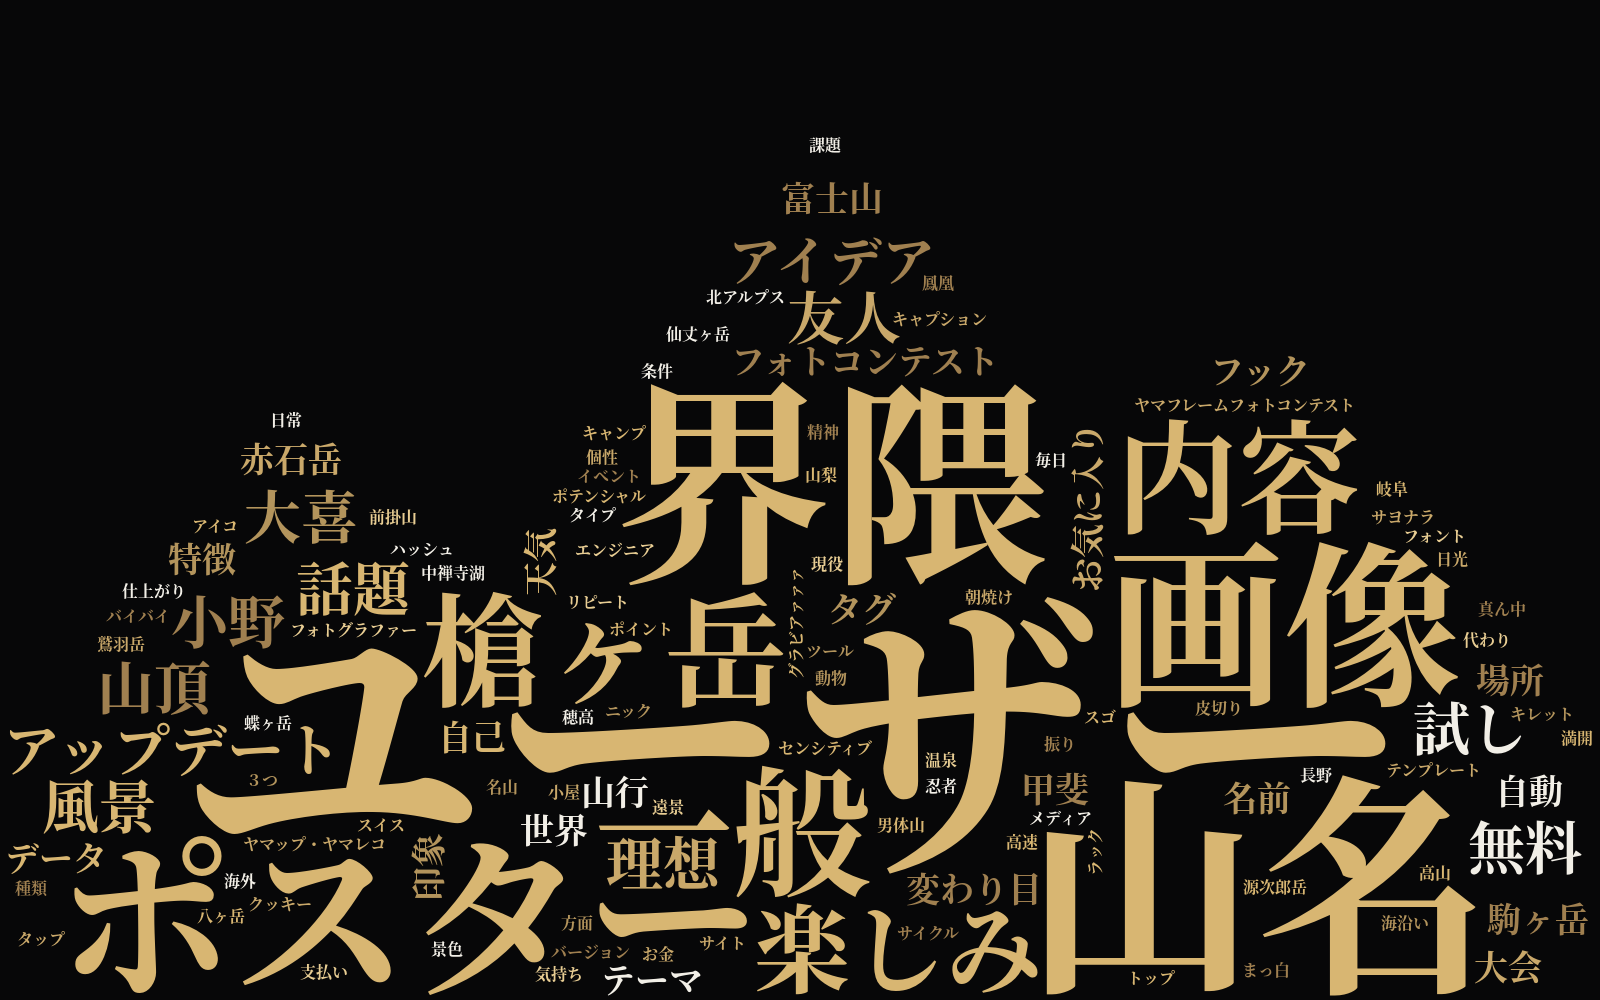
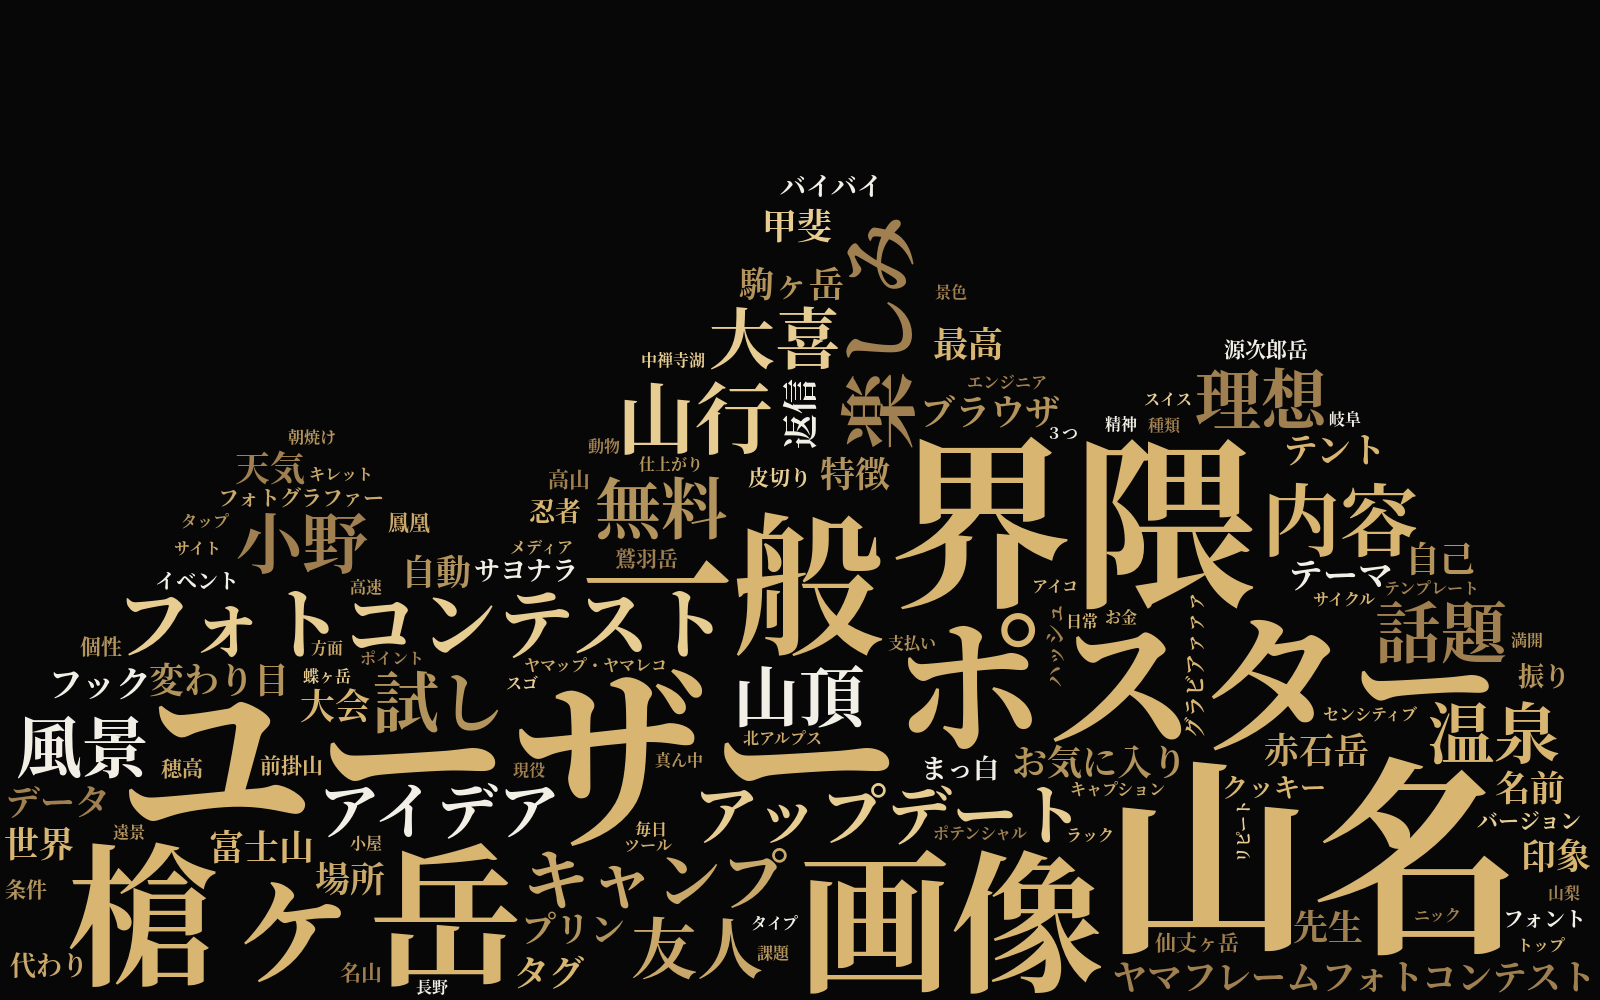
92件版でワードクラウド再生成＋感情分析・クラスタレポートを追加
スクリプトは wordcloud パッケージ名と衝突するため generate_wordcloud.py にリネーム。

Claude-Session: https://claude.ai/code/session_01JMsbE7yzscabH4y4ov72Pp

Changed region(s): [[0.0, 0.124, 1.0, 1.0]]

diff --git a/analysis/sentiment_clusters.md b/analysis/sentiment_clusters.md
@@ -1,0 +1,58 @@
+# ヤマフレーム Xポスト分析（92件 / 2026-08-01時点）
+
+データ: `yamaframe_x_posts_2026-08-01.csv`
+収集方法: Yahoo!リアルタイム検索（「#ヤマフレーム」77件＋タグなし「ヤマフレーム」の新規15件）
+
+## 感情分析
+
+| 分類 | 件数目安 | 備考 |
+|---|---|---|
+| ポジティブ | 約84件 | 絶賛・作品投稿・ネタ投稿含む |
+| 中立 | 約5件 | 淡々とした作品投稿・運営告知 |
+| ネガティブ（批判） | 0件 | アプリへの不満は見当たらず |
+| 改善要望・指摘 | 3件 | 下記参照 |
+
+### ポジティブの代表的な声
+- 「狂おしいほど楽しい」「神アプリ」「これはオシャレ…」
+- 「iPhoneで撮影した私の写真ですら、まるで写真集みたいに」
+- 「適当にやっただけでめっちゃいい感じになるんだけどなぜ無料？？」
+- 「Photoshopいじるまでもない手軽さ、オシャレな感じが良い」
+- 「文字入れ画像作るのっていちいちめんどくさい（のを解決）」← 提供価値の言語化
+- キーワード: 簡単 / 無料 / 登録不要 / ダウンロード不要 / 手軽
+
+### 改善要望・指摘（実質的なTODO）
+1. **山名を消しても引き出し線が消えない**（@baru_tozan）
+   ユーザーが回避策（線のTOを最下部へ伸ばし山頂名をドラッグ移動）を自力発見して共有。UXバグ。
+2. **桜島が山岳辞書にヒットしない**（辞書の網羅性）
+   運営が「アップデート案とする」と回答済み。
+3. **自由記入の山名で改行したい**（@mits3244）
+   → 改行機能として実装済み（公開版にも反映済み）。
+
+### 新機能アイデア（ユーザー発）
+- 「他の人が投稿されたものを山別に見てみたい」→ 山別ギャラリー/アーカイブ
+- ポスター印刷したい
+- 旅Vlog風フォント（運営も検討表明）
+
+## クラスタリング（6グループ）
+
+1. **運営アナウンス**（約27件）
+   ユーザー数推移（24hで700人→2日で1000人→1週間で1700人）、アップデート告知、フォトコンテスト開催、協賛（itomici等）。
+2. **作品・山行記録投稿**（約28件）
+   槍ヶ岳・聖岳・赤石岳・塩見岳・剱岳・富士山・谷川岳など。本来の想定用途。過去写真の再活用（「昔の山行を振り返るのも良き」「雪山行きたくなってきた」）も目立つ。
+3. **感想・絶賛**（約18件）
+4. **ネタ・大喜利 #間違った使い方**（約6件）
+   猫の「山頂超え」835いいね（全体トップ）、グラビア119いいね。運営の「絶対にやるなよ？」公認が拡散を後押し。
+5. **用途の拡張発見**（約8件）
+   キャンプ・温泉・ツーリング・海外の山・動物写真・YAMAPカバー画像の統一・Exifフォトフレームとの併用。
+6. **要望・指摘**（3件）
+
+## 示唆
+
+- いいね上位は「間違った使い方」ネタ（835/119）と公式リリース告知（338）。**バズの主エンジンはネタ枠**、継続利用のコアはクラスタ2と5。
+- 撮影段階から「ヤマフレーム前提で撮る」ユーザーが出現（行動変容）。
+- 「青プリン先生（山座同定リプライbot的アカウント）」との比較言及あり。競合というより界隈の文化として共存。
+- ネガティブゼロは初週バイアス（好意的な人しか投稿しない）の可能性もあるため、継続的にウォッチ推奨。
+
+## 注意事項
+- Yahoo!リアルタイム検索は直近期間のみ・リプライは部分的にしか拾えないため、全言及の完全網羅ではない。
+- いいね等の数値は収集時点の表示値。
